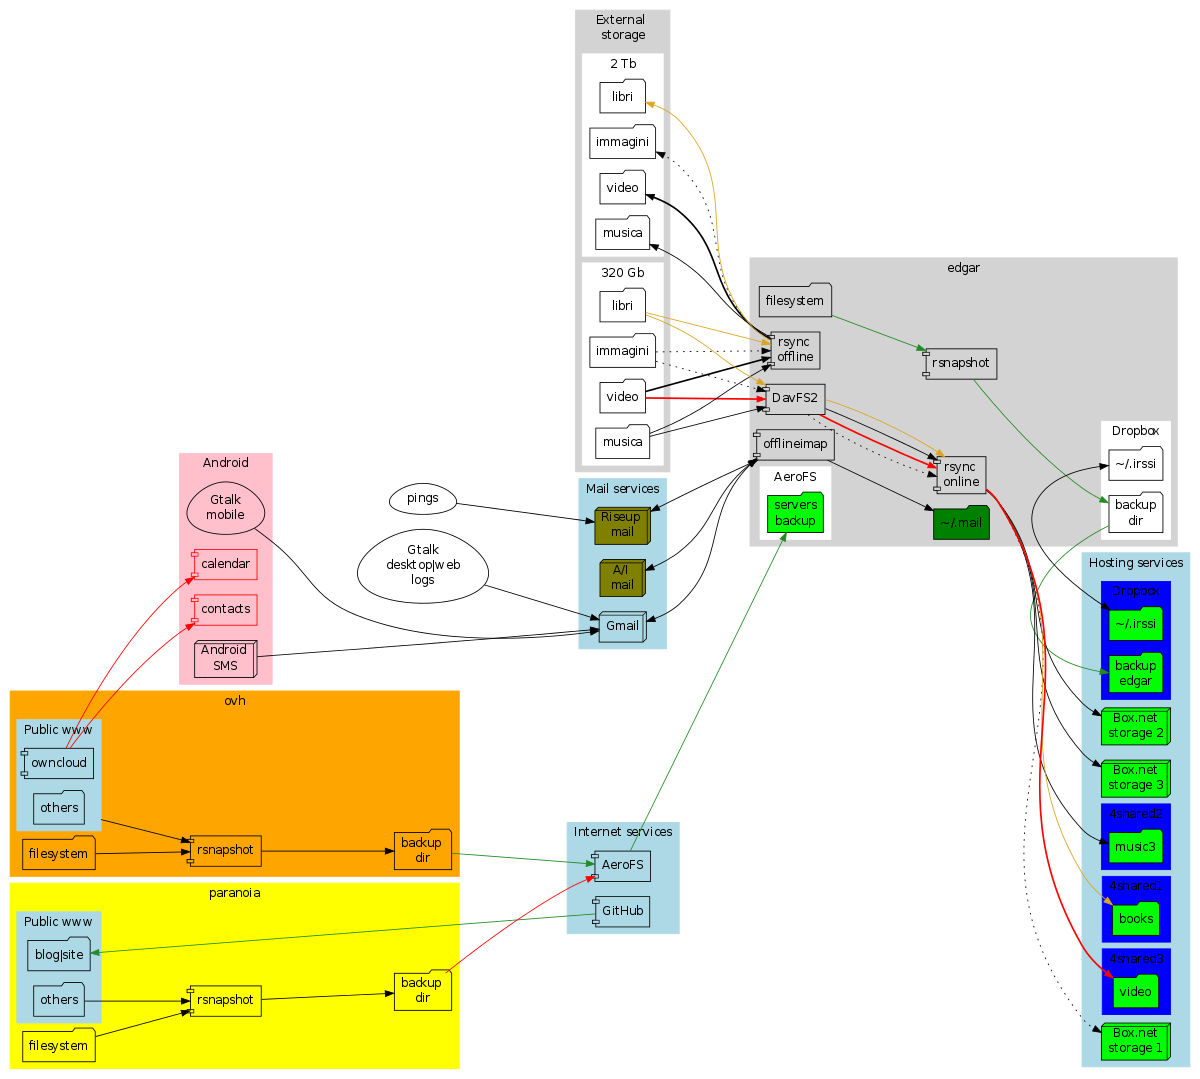
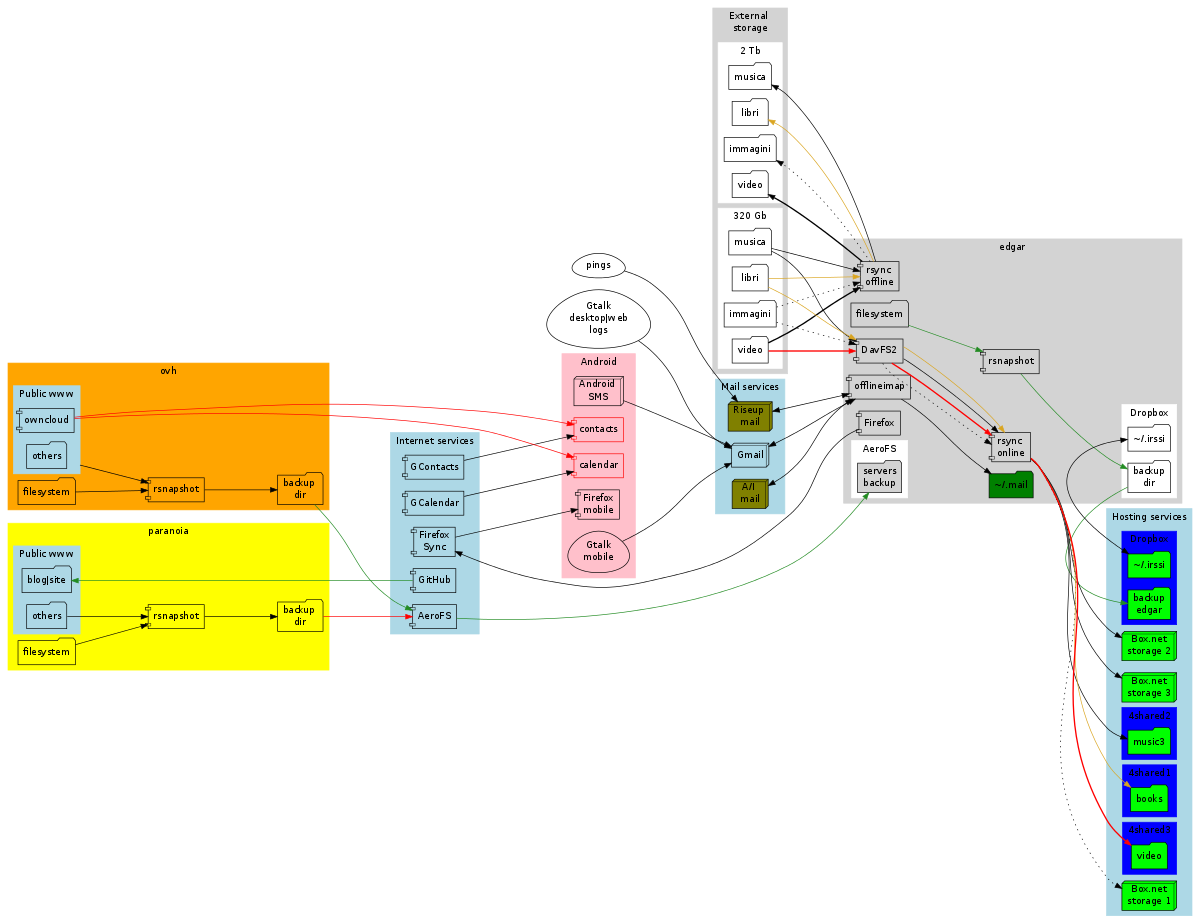
some minor updates

diff --git a/content/log/2012/04/backup-strategies.html b/content/log/2012/04/backup-strategies.html
@@ -54,12 +54,13 @@ Il codice dell'immagine:
 				serversbackup [label="servers\nbackup",shape=folder,style=filled]
 			}
 
-			// scripts
+			// scripts and programs
 			offlineimap [label="offlineimap",shape=component]
 			rsync_off [label="rsync \noffline",shape=component]
 			rsync_on [label="rsync \nonline",shape=component]
 			webdav_edgar [label="DavFS2",shape=component]
 			script_rsnapshot [label="rsnapshot",shape=component]
+			firefox [label="Firefox",shape=component]
 			
 			// folders
 			mail [label="~/.mail",shape=folder,style=filled,fillcolor="#008000"]
@@ -83,6 +84,9 @@ Il codice dell'immagine:
 
 			aerofs [label="AeroFS",shape=component]
 			github [label="GitHub",shape=component]
+			ffsync [label="Firefox\nSync",shape=component]
+			gcalendar [label="GCalendar",shape=component]
+			gcontacts [label="GContacts",shape=component]
 		}
 
 		subgraph cluster_hosting{
@@ -211,6 +215,7 @@ Il codice dell'immagine:
 			sms [label="Android \nSMS",shape=box3d]
 			calendar [label="calendar",color=red,shape=component]
 			contacts [label="contacts",color=red,shape=component]
+			ff_mobile [label="Firefox\nmobile",shape=component]
 			chatmobile [label="Gtalk\nmobile",shape=egg]
 		}
 
@@ -225,9 +230,12 @@ Il codice dell'immagine:
 		chat -> gmail
 		chatmobile -> gmail
 
-		// owncloud -> android
+		// android
 		owncloud -> calendar [color=red]
 		owncloud -> contacts [color=red]
+		firefox -> ffsync -> ff_mobile
+		gcontacts -> contacts
+		gcalendar -> calendar
 
 		// backup edgar
 		filesystem_edgar -> script_rsnapshot -> rsnapshot -> rsnapshot_edgar_drop [color=forestgreen]

diff --git a/site/sn.html b/site/sn.html
@@ -104,7 +104,6 @@ Questa pagina contiene, oltre alla lista dei social network in cui sono presente
 - GitHub	http://github.com/fradeve
 - CoderWall	http://coderwall.com/fradeve
 - StackExchange	http://stackexchange.com/users/1261489/fradeve
-- Letterboxd	http://letterboxd.com/fradeve
 -->
 </table>
 </p>
